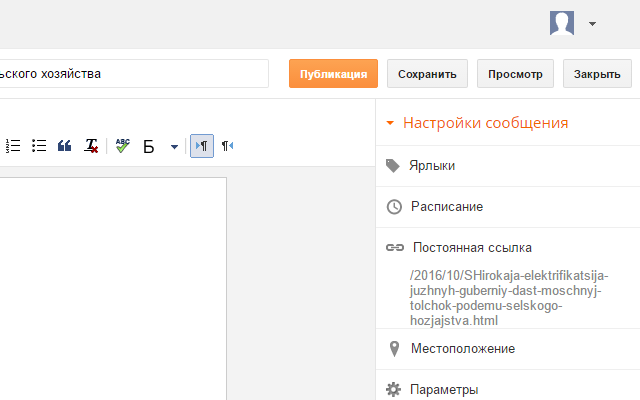
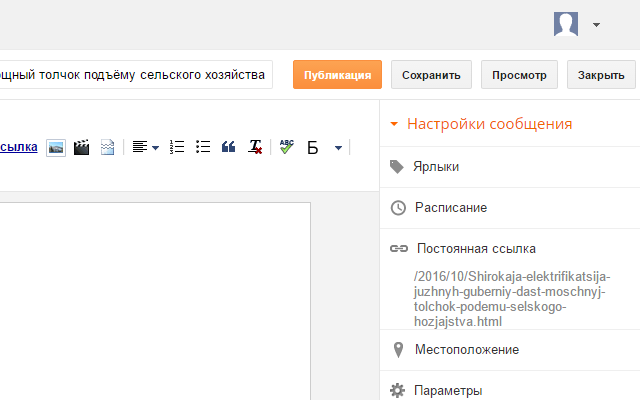
Version 0.0.0.3

diff --git a/BloggerTitleTranslit/translit.js b/BloggerTitleTranslit/translit.js
@@ -35,13 +35,18 @@
         return res;
     }
     
+    String.prototype.replaceAt = function (index, character) {
+        return this.substr(0, index) + character + this.substr(index + character.length);
+    };
+    
     function translit(str) {
         var transliterations1 = {}, transliterations2 = {},
             idx,
             key1, key2,
             key1Low, key2Low,
             transliteration = '',
-            replaced = false;
+            replaced = false,
+            newChar;
         
         if (debugMode) { console.log("🛈 String to translit: " + str); }
         
@@ -122,7 +127,8 @@
                     idx += 1;
                     replaced = true;
                 } else if (transliterations2.hasOwnProperty(key2Low)) {
-                    transliteration += transliterations2[key2Low].toUpperCase();
+                    newChar = transliterations2[key2Low];
+                    transliteration += newChar.replaceAt(0, newChar[0].toUpperCase());
                     idx += 1;
                     replaced = true;
                 }
@@ -132,7 +138,8 @@
                 if (transliterations1.hasOwnProperty(key1)) {
                     transliteration += transliterations1[key1];
                 } else if (transliterations1.hasOwnProperty(key1Low)) {
-                    transliteration += transliterations1[key1Low].toUpperCase();
+                    newChar = transliterations1[key1Low];
+                    transliteration += newChar.replaceAt(0, newChar[0].toUpperCase());
                 } else {
                     transliteration += str[idx];
                 }
